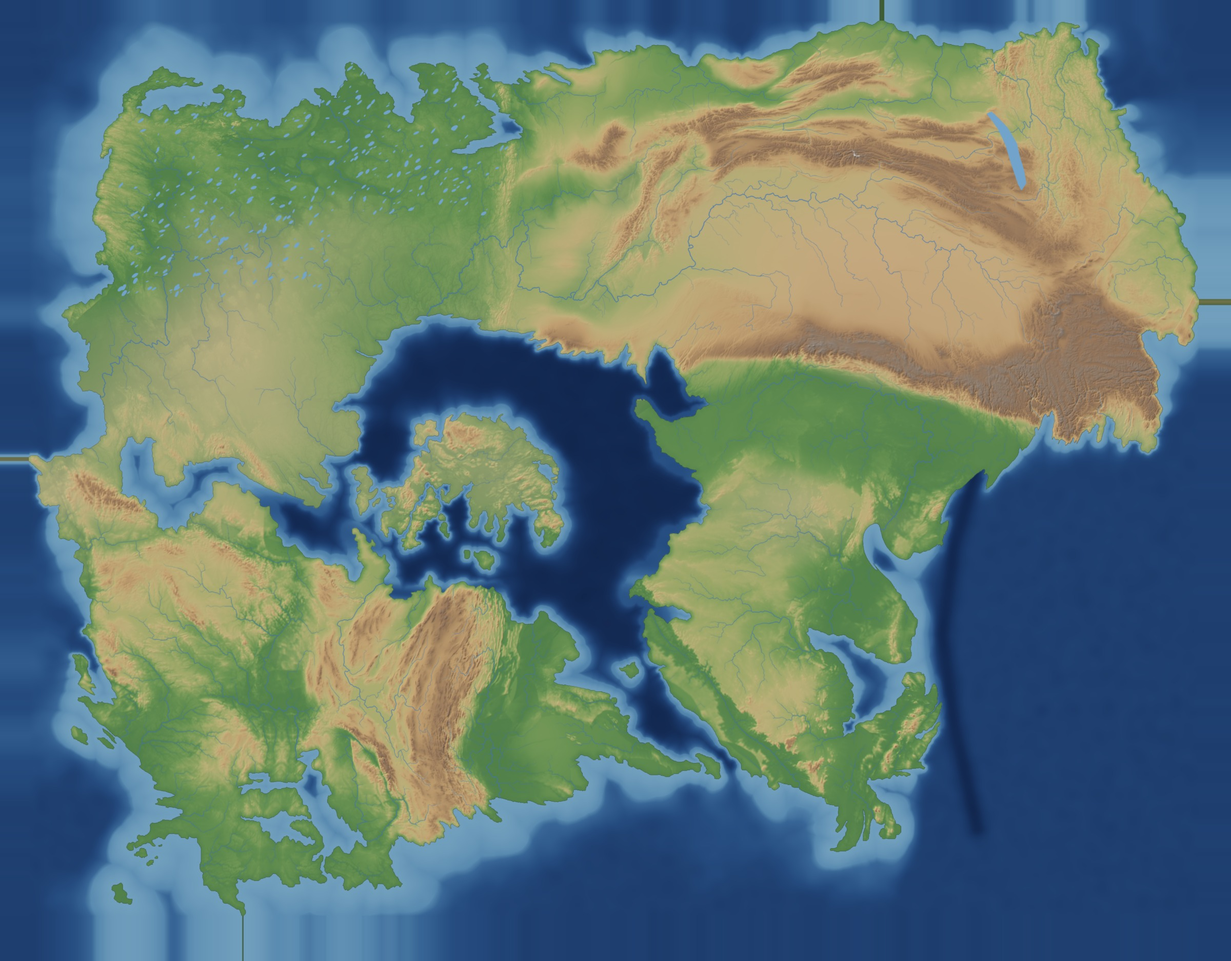
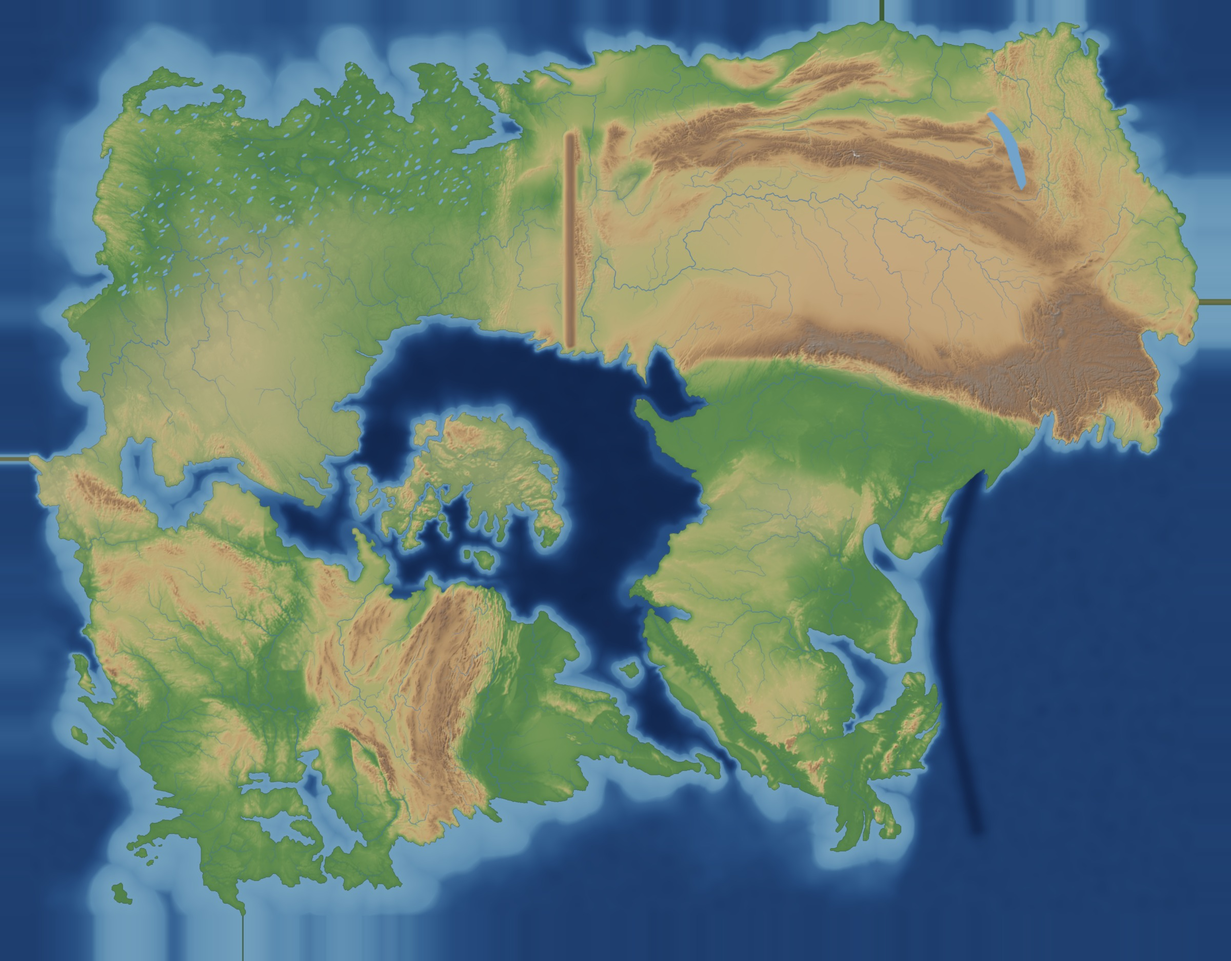
Tarih: Kaynak Sırası 4°B boyunca 36°K ile 51°K arası kesintisiz (atlasta doruklar 3000 ile 3400 m)
Claude-Session: https://claude.ai/code/session_01TrTgWsQ7k9npTcPJkL6aYQ

Changed region(s): [[0.4375, 0.1238, 0.5938, 0.3714]]

diff --git a/tarih/benzer.py b/tarih/benzer.py
@@ -54,12 +54,13 @@ KARSILIK = [
         "bolge": [(845, 60), (1550, 40), (1700, 150), (1780, 450), (2000, 560), (2000, 700), (1720, 640), (1500, 580), (1300, 530),
                   (1120, 520), (1040, 560), (900, 600), (855, 560)],
     },
-    {   # Tuzak Çanağı'nın batı kapısı: Kaynak Sırası (2 milyar yıllık Kaynak dikişi, Mor çarpışmasıyla yeniden sıkıştı).
-        # Sahip istedi: çanak batıdan kapansın, içi bozkır olsun. Karşılığı Büyük Kafkas, yükseklik 0,75.
-        "ad": "Kaynak", "kutu": (35, 51, 39, 47.5), "parca": {"2"}, "carpan": 0.75, "oncelik": 3.0, "yumusak_km": 40,
+    {   # Tuzak Çanağı'nın batı kenarı: Kaynak Sırası (2 milyar yıllık Kaynak dikişi, Mor çarpışmasıyla yeniden sıkıştı).
+        # Atlas oturumunun kararı: atlas koordinatlarında yaklaşık 4°B boylamında, 36°K ile 51°K arasında kesintisiz, kuzey güney
+        # uzanımlı; atlas çözünürlüğünde doruklar 3000 ile 3500 m. Doku Büyük Kafkas'tan; sürekliliği SIRT_ZARF sağlar.
+        "ad": "Kaynak", "kutu": (35, 51, 39, 47.5), "parca": {"2"}, "carpan": 0.8, "oncelik": 3.0, "yumusak_km": 35,
         "etiket": [("KAYNAK SIRASI", 42.4, 43.35, 14)],
-        "nokta": [(929, 481, 37.4, 44.9), (1013, 354, 42.4, 43.35), (1108, 218, 48.5, 41.2)],
-        "bolge": [(1150, 190), (1150, 245), (1050, 380), (965, 510), (900, 500), (885, 455), (975, 330), (1070, 195)],
+        "nokta": [(925, 547, 37.4, 44.9), (925, 400, 42.4, 43.35), (925, 205, 48.5, 41.2)],
+        "bolge": [(895, 185), (955, 185), (965, 400), (960, 560), (890, 560), (885, 400)],
     },
     {   # Mor Sıradağları: yalnız dar sıra şeridi; karşılığı aynalanmış Himalaya'nın ön kuşağı (arkasındaki yayla dahil değil),
         # yükseklik 6 km dolayına ölçekli. Çanak bölgesinin üstüne baskın yazılır.
@@ -296,6 +297,33 @@ def tasarla(z, kara, s, doku):
 
 
 GOL = None
+# Kaynak Sırası: kesintisiz sırt zarfı ve doruk sınırı (atlas: 4°B, 36°K ile 51°K, doruklar 3000 ile 3500 m)
+SIRT_ZARF = {"cizgi": [(925, 200), (925, 552)], "tepe": 3380.0, "yari_km": 40.0, "ust": 3550.0}
+
+
+def sirt_zarf(z, kara, s):
+    from scipy.spatial import cKDTree
+    c = np.array(SIRT_ZARF["cizgi"], float)
+    pts = np.vstack([c[0] + (c[1] - c[0]) * t for t in np.linspace(0, 1, 400)[:, None]]) * s
+    ny, nx = z.shape
+    r0, r1 = int(c[:, 1].min() * s) - 200, int(c[:, 1].max() * s) + 200
+    c0, c1 = int(c[:, 0].min() * s) - 200, int(c[:, 0].max() * s) + 200
+    r0, c0 = max(r0, 0), max(c0, 0); r1, c1 = min(r1, ny), min(c1, nx)
+    yy, xx = np.mgrid[r0:r1, c0:c1]
+    d, _ = cKDTree(pts).query(np.stack([xx.ravel(), yy.ravel()], 1))
+    d = d.reshape(xx.shape) * O.KM_PX / s
+    g = ndimage.gaussian_filter(np.random.default_rng(41).standard_normal(xx.shape), 25 / (O.KM_PX / s))
+    zarf = SIRT_ZARF["tepe"] * (0.97 + 0.03 * np.clip(g / g.std(), -2, 2)) * np.exp(-(d / SIRT_ZARF["yari_km"]) ** 2)
+    alt = z[r0:r1, c0:c1]
+    yeni = np.maximum(alt, zarf)
+    u = SIRT_ZARF["ust"] - 250
+    yeni = np.where(yeni > u, u + 250 * np.tanh((yeni - u) / 250), yeni)  # doruk sınırı yumuşak
+    w = np.exp(-(d / 120) ** 2)  # sınır yalnız sırtın çevresinde
+    z = z.copy()
+    z[r0:r1, c0:c1] = np.where(kara[r0:r1, c0:c1], alt * (1 - w) + yeni * w, alt)
+    return z
+
+
 MOR_SIRT = [(1075, 615), (1150, 562), (1300, 562), (1500, 614), (1715, 674), (1870, 700)]
 
 
@@ -370,6 +398,7 @@ def bilesik():
     Wl = ndimage.gaussian_filter(np.asarray(im), 40 / (O.KM_PX / s))
     z = np.where(z > 850, 850 + (z - 850) * (1 - 0.75 * Wl), z)
     z = on_ova(z, kara, s, lab, adlar)
+    z = sirt_zarf(z, kara, s)
     if TASARIM.get("etkin"):
         k_t = TASARIM["doku"]
         im = Image.new("L", (nx, ny), 0)

diff --git a/tarih/notlar/KARARLAR.md b/tarih/notlar/KARARLAR.md
@@ -49,3 +49,8 @@ kullanalım, ama tam olarak aynısı olmadan." Seçtiğim karşılıklar (benzer
 - 3: Hindistan; doğu kıyısında aynalı Sumatra ve Cava (Doğu Yay Dağları).
 - 4: aynalı İberya (Pireneler = Köprü Dağları), kuzey güney aynalı Fransa (Masif Santral = Köz Masifleri), İran (Zagros = Sarı Sıradağları).
 - 5: Mezopotamya, Basra, Arabistan. 6: Ege. 7: Aşağı Kaliforniya (kanal = Kaliforniya Körfezi).
+
+## 14 Kasım 2026: Kaynak Sırası (atlas oturumunun kararı)
+Tuzak Çanağı'nın batı kenarına kesintisiz kuzey güney sırt: atlas koordinatlarında yaklaşık 4°B, 36°K ile 51°K arası.
+Atlas çözünürlüğünde (0,088°) ölçülen sırt tepesi her satırda 3034 ile 3383 m (medyan 3203). Amaç: havzanın yaklaşık %43'ü bozkır.
+Hikâyede 2 milyar yıllık Kaynak dikişinin Mor çarpışmasıyla yeniden sıkışması.
